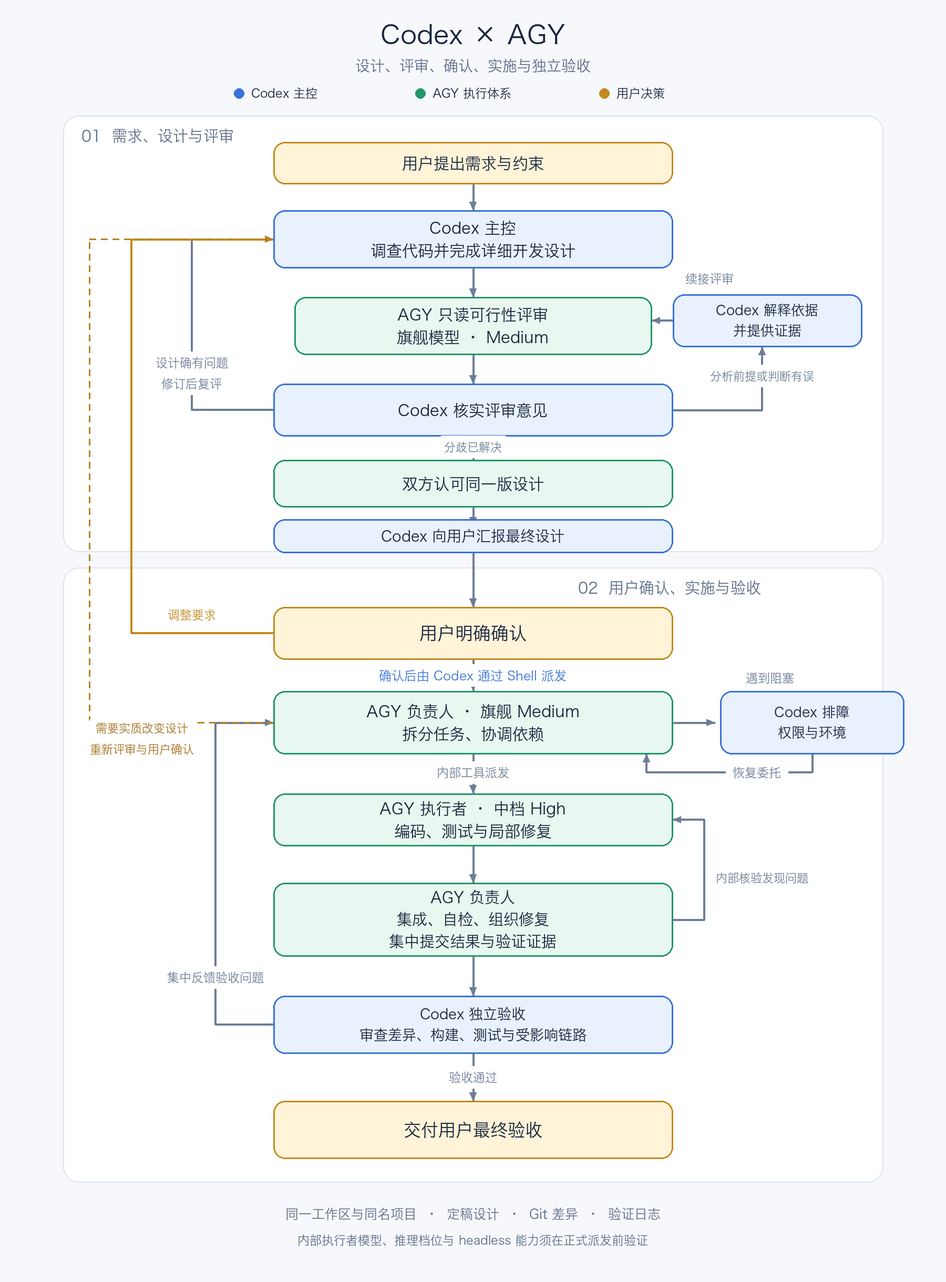
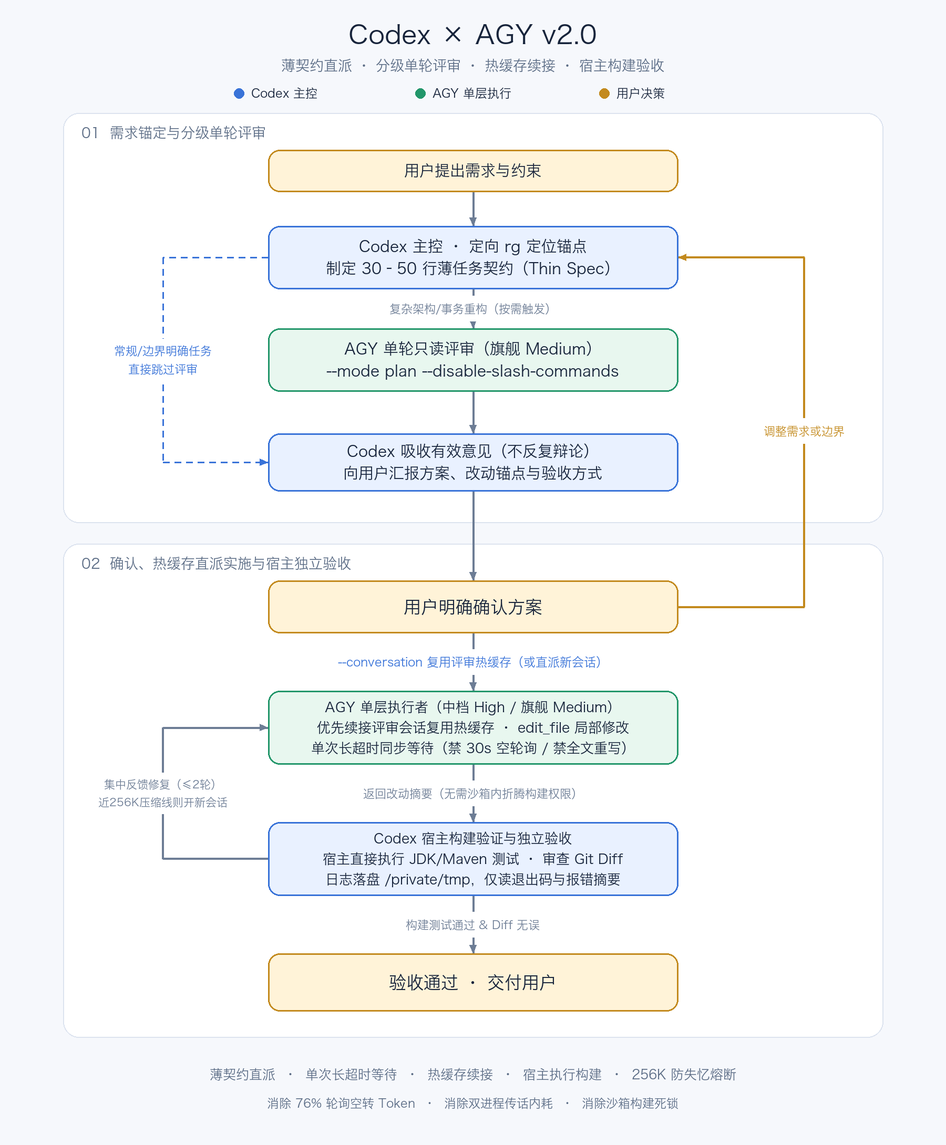
Refactor codex-agy to v2.0 thin-spec direct dispatch and add CHANGELOG

diff --git a/codex-agy/SKILL.md b/codex-agy/SKILL.md
@@ -1,107 +1,89 @@
 ---
 name: codex-agy
-description: 通过 Antigravity CLI（agy）使用 AGY 作为 Codex 的实现 Subagent。用于委托可行性分析、编码、测试或修复，以及续接同一项委托。Codex 保留技术决策和验收权。
+description: 通过 Antigravity CLI（agy）使用 AGY 作为 Codex 的实现 Subagent。采用薄契约直派、按需单轮评审、热缓存续接与宿主构建解耦，彻底消除轮询空转、权限死锁与 256K 压缩失忆。Codex 保留技术决策、构建验证和独立验收权。
 ---
 
-# 直接调用 AGY
+# 高效调用 AGY（薄契约直派架构）
 
-## 从设计到验收
+## 核心原则（针对性解决 8 大痛点）
 
-开发委托按以下顺序执行。每一步产出可核对的结果后，再进入下一步。
+1. **禁止轮询空转（防 Codex 额度爆炸）**：Codex 调用 `agy -p` 时必须使用**单次长超时同步等待**（把工具单次 `yield_time_ms` / timeout 拉到最大，或设 `--print-timeout 600s`）。**严禁每 30–60 秒循环发送空 `write_stdin(chars:"")` 轮询等待**，因为每次空轮询都会把 Codex 几十万 token 的上下文重新推理一遍。
+2. **禁止越界扒库**：`agy -p --output-format json` 在回合结束前无流式输出属正常现象。**严禁 Codex 编写脚本读取或反序列化 `~/.gemini/antigravity-cli/` 下的内部数据库、`transcript.jsonl` 或 `.pb` 文件来监控进度**。
+3. **单层直派，砍掉双进程传话筒**：默认由 **Codex 直接派发单个 AGY 会话**完成编码与修复。**严禁 Codex 在外部同时启动“AGY 负责人 + AGY 执行者”两个独立 `agy -p` 进程并在中间人工传话**，严禁跨独立 CLI 进程调用 `send_message`。
+4. **禁止在 Prompt 中写 `/plan` 斜杠命令**：在 `agy -p` 提示词内写 `/plan` 会触发 AGY 内置的 1500 字 `<PLAN>` 宏展开（强制要求模型全库调研并写 Artifact 文件）。只读模式必须通过 CLI 参数 `--mode plan --disable-slash-commands` 控制。
+5. **严防 256K 自动压缩失忆**：AGY 单会话上下文达到 **~256K tokens** 时会触发自动 Compaction（丢弃早期读取的源码签名细节，`cache_read_tokens` 归零），导致后续修改臆造 API。**单个 AGY 会话最多续接 2–3 轮**；若仍未收敛或上下文已超 150K，立即基于当前 Git 状态开新会话，只传剩余问题的文件与行号。
+6. **移除仪式性探测与沙箱死锁**：**取消开工前的 `git status` / `AGY_WORKER_READY` 空跑探测会话**。若沙箱限制外部 JDK/Maven，让 AGY 仅用原生文件工具（`read_file` / `edit_file` / `write_file`）改代码，**由 Codex 在宿主环境统一跑构建与测试**，再把精简报错交回 AGY 修复。
 
-1. **Codex 完成详细开发设计。** 核实现有行为，写出可直接指导实施的设计文件，按任务写清模块职责、接口和数据契约、主流程和边界条件、状态与事务边界、失败处理及验收用例。
-2. **AGY 用有额度的旗舰模型、Medium 推理强度做只读可行性评审。** 在委托中引用设计文件，要求 AGY 对照现有代码给出结论、依据、风险和阻塞项。需要终端工具时，先用同一工作目录、模式和会话权限验证一条已获授权的只读命令。缺少实质结论时留在评审阶段，由 Codex 排障并续接评审。CLI 的 `SUCCESS` 只代表调用状态。
-3. **Codex 复核评审，双方对同一版设计达成一致。** Codex 用代码、约束和必要的验证核对 AGY 的发现。设计确有问题时，修订后请 AGY 复评。若异议来自分析前提或判断有误，向 AGY 说明证据和理由，再请它复核。续接讨论，直到 Codex 和 AGY 都明确认可同一版设计可实施，并处理完影响实施的分歧。未达成一致时保留在评审阶段，向用户说明仍需解决的问题。
-4. **向用户汇报定稿并等待明确确认。** 说明最终设计、改动范围、关键决策、风险与验收方式，并附设计文件路径。确认前只做设计、只读评审和必要排障。收到用户对该版设计的明确确认后，才启动 `accept-edits`。如果实施中需要实质改变设计或范围，受影响部分重新评审并交用户确认。
-5. **Codex 派发，AGY 负责人组织实施。** Codex 在用户确认后，用旗舰模型 Medium 新开负责人会话，交付定稿、范围和验收条件。负责人在设计内拆分步骤、安排中档 High 执行者、协调依赖、集成和自检，集中向 Codex 交付结果。改变设计或范围时交回 Codex。实施受阻时由 Codex 排障并恢复委托。
-6. **Codex 独立验收。** AGY 交回自检结果后，Codex 对照设计检查整个项目受影响的链路、实际差异和测试内容，并独立执行必要的构建、测试或运行检查。集中列出有依据的问题交回 AGY 修复，再核对本轮差异并复验，直到达到验收条件再交付。
+---
 
-## 控制上下文和往返
+## 从设计到验收（精简 4 步流）
 
-- **按需读取。** Codex 用 `rg` 定位入口、契约和风险相关实现，再读取必要片段。已核实且未变化的内容沿用结论。新的证据或依赖关系需要时再扩展调查范围。
-- **约束日志输出。** 完整构建日志和 AGY 原始输出保存到任务目录。进入 Codex 上下文的优先是退出码、摘要、用量、拒绝项和失败片段，需要时再读原文件。AGY 报告引用文件路径，源码变更通过 Git 差异审查。
-- **等待实际进展。** 预计耗时较长的 AGY 或构建调用，首次等待使用工具支持的较长时限。仍在运行时，常规等待每次 30–60 秒，同一进程只保留一个等待链。空输出或状态未变时继续等待。发现超时、报错或长时间没有进展后再定向查日志。状态汇报遵循宿主要求。
-- **集中验收与修复。** AGY 写入期间等待其完成交付单元和自检，再集中检查。把本轮已确认问题和失败证据一次交回 AGY，自主修复后复验。修复后重点检查本轮变化、受影响调用方及相关回归项。新发现的风险再扩大检查。
-- **按阶段交接。** 设计评审与分歧讨论续接评审会话。用户确认设计后，以定稿文件、验收条件和必要约束交给新的 AGY 实施会话。同一交付单元的修复优先续接。独立交付单元开新会话。上下文已混入大量旧日志时，先核实前次运行结束并保留交接摘要，再从当前 Git 状态新开会话。
-- **复用有效配置。** 同一环境中已验证的模型列表、路径和权限探测结果可以复用。切换阶段时查额度，权限配置或环境变化、出现拒绝时再探测。Codex 与 AGY 避免同时写同一工作区。负责人并行派发写任务时，使用已授权的隔离工作树，或核实文件修改范围互不重叠。共享契约和集成改动按依赖顺序执行。
+### 1. Codex 定向锚定与薄契约设计
+- Codex 用 `rg` 快速定位入口、契约与受影响文件（最多读取必要片段，不做全量重读）。
+- **拒绝文书泛滥**：不在仓库中堆砌多份长篇设计文档、实施文档、Worker 委托书。直接整理一份精炼的**薄任务契约（Thin Spec，控制在 30–50 行内）**，包含：
+  1. **业务目标与不可变边界**（改什么、保留什么、哪些接口/表/协议绝不能破）；
+  2. **精确文件锚点清单**（列出目标源码与测试文件的绝对路径或相对路径、关键方法签名）；
+  3. **局部修改铁律**（要求对已有业务类使用 `edit_file` 局部修改，**严禁 `write_file` 全文重写已有复杂类或臆造未核实的 Mapper/Service 方法**）；
+  4. **验收测试点**。
 
-## 派发给 AGY 负责人
+### 2. 分级触发：单轮只读可行性评审（按需）
+- **何时跳过评审**：需求边界明确、单模块局部改造、明确删减冗余代码、字段调整或常规 Bug 修复，Codex 直接向用户汇报薄契约方案，确认后直奔第 3 步实施。
+- **何时触发评审**：仅当涉及跨服务契约、并发/锁/事务边界重构、复杂状态机改造或存在技术路线分歧时，调用一次旗舰模型 Medium 做**单轮（One-shot）只读评审**：
+  ```bash
+  agy --model '<旗舰 Medium 模型 ID>' --mode plan --disable-slash-commands --output-format json --print-timeout 300s \
+    -p '只读评审以下方案。仅使用 read_file 读取列出的锚点文件（最多 8 个文件，禁止全库扫描、禁止写文件或运行命令）。直接指出：1. 方案是否可行；2. 与现有代码冲突或遗漏的边界；3. 必须修正项。控制在 500 字内。'
+  ```
+- **取消多轮辩论**：Codex 核实 AGY 的单轮评审意见后，直接吸收合理部分并向用户汇报最终方案等待确认，**不再为了“文字表态达成一致”反复续接评审会话**。
 
-Codex 负责实际 Shell 调用、选择模型和传入本轮已验证的权限设置。负责人使用普通 `agy -p` 会话，以委托提示明确职责。委托文件由 Codex 按任务准备，包含最终设计路径、用户已确认的范围、交付单元及依赖、验收命令、执行者模型要求、允许改动范围和必须上报的问题。负责人可自主细分编码步骤，并负责内部修复和整体验证。
+### 3. 用户确认后：热缓存直转实施（或单层直派）
+收到用户对方案的明确确认后，启动 `accept-edits` 实施：
+- **路径 A（做过第 2 步评审 —— 优先复用热缓存）**：
+  **不要新开空白会话！** 直接用 `--conversation '<评审会话 ID>'` 续接刚才的评审会话（此时核心源码已在 Prompt Cache 中，仅 2–4 万 tokens），切换为 `--mode accept-edits`（及中档 High 模型）立即改代码，省去 15 分钟重复 `read_file`：
+  ```bash
+  agy --conversation '<评审 conversation_id>' --model '<中档 High 模型 ID>' --mode accept-edits --disable-slash-commands --output-format json --print-timeout 600s \
+    -p '用户已确认方案。请直接基于你刚才已读取的源码缓存开始实施，禁止重复全量 read_file。对已有类必须使用 edit_file 局部修改，严禁全文覆盖重写或编造不存在的方法。完成后简要返回改动文件清单。'
+  ```
+- **路径 B（跳过评审的任务 —— 单层直派执行者）**：
+  直接启动一个中档 High（如 `gemini-3.8-flash-high`）或旗舰 Medium 会话完成编码：
+  ```bash
+  agy --model '<中档 High 模型 ID>' --mode accept-edits --disable-slash-commands --output-format json --print-timeout 600s \
+    -p '按以下已确认契约实施代码与测试修改。先定向读取列出的锚点文件（禁止全库扫描），再用 edit_file/write_file 完成修改。严禁全文重写已有复杂业务类。完成后返回改动摘要。'
+  ```
 
-首次采用内部子 Agent 时，先核对 `agy agents`、CLI 帮助和当前工具能力，验证 headless 下可调用执行者，并从实际调用证据核对执行者的模型和推理档位。`--model` 只明确设置负责人会话的模型。内部执行者的独立选型必须通过当前支持的子 Agent 配置实现。若能力或档位无法满足，负责人向 Codex 报告，由 Codex 调整可用调用方式，完成验证后再派发开发。[AGY 子 Agent 文档](https://antigravity.google/docs/subagents)
+### 4. Codex 宿主构建验证与集中修复
+- AGY 返回后，Codex 先用 `git status --short` 和 `git diff` 检查实际改动范围与代码质量。
+- **构建与测试由 Codex 在宿主环境直接执行**（如运行真实 JDK8 Maven `clean test` / `clean package`），并将完整构建日志重定向到 `/private/tmp/<task>-build.log`，只在 Codex 上下文中读取退出码与最后 30–50 行报错摘要。
+- **集中返工（最多续接 1–2 次）**：
+  - 若有编译错误、测试失败或审查问题，Codex 将**所有问题、精确文件行号及错误摘要一次性打包**，用 `--conversation '<实施会话 ID>'` 续接让 AGY 修复。
+  - **防失忆熔断**：如果该会话已续接满 3 轮，或发现 AGY 开始重复读文件/遗忘签名（接近 256K 自动压缩线），**立即放弃旧 `conversation_id`**，基于当前已落盘的 Git 状态开一个全新会话，只传那几个报错文件的路径与修复指令。
 
-```bash
-agy --project '<项目 ID>' --model '<旗舰 Medium 模型 ID>' --mode accept-edits --output-format json \
-  -p '你是本次 AGY 实施负责人。读取 <委托文件绝对路径> 和其中引用的用户已确认设计。按设计拆分实施任务，使用已验证的中档 High 子 Agent 配置分派编码和测试，协调依赖与写入范围，完成集成、自检和局部修复。遇到设计冲突或能力限制先报告 Codex。等内部任务结束并核对实际验证结果后，集中返回改动摘要、测试证据路径和未完成项。'
-```
+---
 
-同一交付单元的纠偏和返工，Codex 用负责人的 `conversation_id` 续接，提交集中问题清单。日常实现细节由负责人内部协调，需要 Codex 决策的冲突和最终验收结果再回传。
+## 模型与额度检查（轻量化）
 
-## 先查本机帮助
+- 每个 Codex 对话**仅在首次调用 AGY 前（或遭遇 429/额度报错时）**执行一次：
+  ```bash
+  agy models
+  agy -p '/usage'
+  ```
+- **禁止在每次阶段切换或续接前重复运行**模型与额度查询。
+- 选型规则：
+  - **复杂方案单轮只读评审**：有额度的旗舰模型 Medium（如 `gemini-4-argon-medium` 或同档模型）。
+  - **编码、测试与局部修复**：有额度的中档模型 High（如 `gemini-3.8-flash-high`）；若逻辑极其复杂或中档模型额度不足，可直接用旗舰模型 Medium 实施。
+  - 优先直接使用 `agy models` 中自带推理档位后缀的模型 ID（如 `-medium`、`-high`）。
 
-当前 Codex 对话首次使用 AGY 时，先运行 `command -v agy` 和 `agy --help`，再选择调用方式。使用不熟悉的子命令时，先运行 `agy <子命令> --help`。遇到参数报错、CLI 升级或发现文档与本机行为有差异时，重新查对应帮助后再重试。需要交互式斜杠命令时，另外核对该命令是否支持当前的交互或 headless 模式。
+---
 
-## 委托前检查模型和额度
+## 工作区、权限与多子任务规范
 
-在选模型前由 Codex 运行以下命令。进入下一阶段前刷新额度，并把实际选用的模型和对应模型组的剩余额度简要告诉用户。
-
-```bash
-agy models
-agy -p '/usage'
-```
-
-查询额度时保留 CLI 的斜杠命令处理，避免给 `/usage` 加 `--disable-slash-commands`。
-
-> 先查看 AGY 当前可用模型和剩余额度。可行性评审和 AGY 实施负责人使用有额度的旗舰模型，推理强度 Medium。内部编码、测试和修复执行者使用有额度的中档模型（如 Flash），推理强度 High。
-
-按 CLI 实际返回的模型 ID 和额度选型，检查适用的短时、周度及模型专属额度。优先使用列表中已经包含推理档位的模型 ID。若使用基础模型 ID，则用 `--effort medium` 或 `--effort high` 显式指定档位。首选组合不可用时，选同档且支持所需推理强度的模型并说明。查询失败时报告额度未知。没有符合条件的组合时向用户说明限制。按阶段传入模型参数，续接会话时也显式选型。[AGY 模型与推理参数](https://antigravity.google/docs/cli/reference/) · [AGY 模型额度](https://antigravity.google/docs/cli/commands/usage)
-
-## 命令
-
-以当前 Codex 对话的工作区目录为准，用它的绝对路径作为 Shell 调用的工作目录。若 Codex 当前就在 Git 工作树中，AGY 使用同一个工作树。比较路径时解析符号链接，例如用 `pwd -P` 确认实际目录。
-
-Codex 项目中的新委托归档到同名 AGY 项目。以 Codex 中显示的项目名称为准，分别确认名称和实际工作区。复用已有项目时，核对项目配置包含目标目录且范围适合本次委托，再用 `--project '<项目 ID>'` 启动。遇到同名但目录不匹配的项目，先解决归属再委托。
-
-没有同名项目时，创建与 Codex 项目同名、绑定目标工作区的 AGY 项目。本机 CLI 的 `--new-project` 默认用启动目录的名称建项目，只有目录名与 Codex 项目名一致时才直接使用该参数，否则在 AGY 项目界面指定名称和目录。当前本机版本可从 `~/.gemini/config/projects/<项目 ID>.json` 核对 `name`、`id` 和 `projectResources.resources[]` 中的 `folderUri` 或 `gitFolder.folderUri`。如果当前对话没有 Codex 项目，或用户明确要求使用默认 CLI 项目，可省略 `--project`。[AGY 项目文档](https://antigravity.google/docs/projects?tab=cli)
-
-```bash
-agy --project '<项目 ID>' --model '<旗舰 Medium 模型 ID>' --mode plan --output-format json -p '评估这项方案的可行性，指出风险和待决问题。只读分析。'
-agy --project '<项目 ID>' --model '<旗舰 Medium 模型 ID>' --mode accept-edits --output-format json -p '按已批准的方案文件实施，执行约定的测试并报告结果。'
-```
-
-将示例提示替换为实际目标、已确定的方案、允许范围和验收条件。较长的内容或关键方案放在 AGY 可读取的项目文件中，在提示里给出路径。可用自然语言要求 AGY 说明改动、测试结果和待决问题。
-
-## 读取结果与续接
-
-`--output-format json` 返回 CLI 原生 JSON。读取 stdout 的 `response`，结合进程退出码、`status`、`error`、出现时的 `denied_actions` 和 stderr 判断实际执行情况。即使 CLI 返回成功，也要以实际改动与验证结果为准。无需续接时也可直接读默认文本输出。
-
-按阶段交接规则选择新会话或续接。续接时使用上一轮 JSON 的 `conversation_id`，核对工作区和项目归属。确认目标是当前目录最近使用的会话时，也可用 `--continue`（`-c`）。每次 `agy -p` 都启动新进程。有交错委托或归属不确定时，用 `--conversation` 精确续接。
-
-```bash
-agy --conversation '<conversation_id>' --model '<旗舰 Medium 模型 ID>' --mode accept-edits --output-format json \
-  -p '按更新后的方案文件和下面的验收要求继续。'
-
-agy --continue --model '<旗舰 Medium 模型 ID>' --mode plan --output-format json \
-  -p '继续只读分析，补充上一轮的待决问题。'
-```
-
-核对返回的会话 ID。独立委托按上面的项目归档规则开启新会话，省略 `--conversation` 和 `--continue`。旧会话不可用或属于其他工作区时，先核对已发生的改动，再把当前方案和剩余工作交给从当前工作区启动的新会话。续接时仍应引用关键方案文件，以应对上下文压缩。[AGY 会话工作区](https://antigravity.google/docs/cli/conversations) · [AGY Headless 文档](https://antigravity.google/docs/cli/headless#continue-a-conversation)
-
-## 权限
-
-生产代码、测试代码及实现所需的项目配置由 AGY 编写和修改。Codex 负责设计、委托、排障和验收。若 headless 拒绝 `RunCommand`，结合 `denied_actions`、stderr、委托目标和 Git 差异，查清被拦的动作、它是否必要，以及已完成的改动。根据原因在原授权范围内处理：
-
-- 文件查阅或编辑可用 AGY 的文件工具完成时，调整提示并续接原委托。
-- Git 检查、构建或测试等命令可由 Codex 按现有权限执行时，主动执行并把结果带回原 AGY 会话，让 AGY 继续实施或修复。若 Codex 的权限规则也拒绝该动作，遵循该规则。
-- AGY 必须亲自运行某条已获授权的命令时，先核对本机支持的会话权限配置，再用 `--settings` 仅放行本轮所需的命令。需要新增授权时，说明具体命令、用途和影响，继续推进无需该权限的部分。
-
-重试时从已确认的 Git 状态继续，按可独立验证的范围拆分剩余工作。确实无法继续时，报告具体阻塞和待完成范围，由 AGY 在阻塞解除后继续实施。
-
-### 验证 headless 委托能执行
-
-1. 需要 AGY 运行终端命令时，先按本机 CLI 支持的方式配置会话权限，只授权本轮需要的动作。在 MQ 任务中，经验证可用的组合是 `--sandbox` 加上会话设置 `enableTerminalSandbox: true` 和 `toolPermission: "proceed-in-sandbox"`，同时按任务配置具体的 `permissions.allow` 和 `permissions.deny`，包括禁止 `unsandboxed(*)`。该模式会允许沙箱内的命令，仅在现有授权覆盖这种运行方式时使用。只授权个别命令时，用经核实的具体允许规则或由 Codex 代跑。
-2. 先用相同的设置委托一个小探测，例如让 AGY 实际运行 `git status --short` 并返回结果。核对工具执行证据和 Git 基线。正式评审或实施调用使用已验证的相应设置。已有会话用 `--conversation` 续接时再次传入 `--settings`。
-3. 超时或出现拒绝后，先核对 Git 差异和实际测试输出。权限问题恢复后按原阶段续接。已写入的改动按实际状态交给 AGY 继续。评审以实质结论为准，实施以代码差异和独立验证为准。
-
-`plan` 用于分析，`accept-edits` 用于已授权的实现。执行模式和提示词都不能替代权限隔离。按任务使用 Codex 的宿主权限和 AGY 的会话设置（`--settings`）。`--sandbox` 限制 AGY 执行的终端命令。严格只读时，确认文件工具和终端都受只读权限约束。禁止生产操作时，隔离生产凭据与网络访问。记录 Git 基线以保护已有未提交改动。需要隔离时，先让 Codex 在隔离工作树中开展任务，并从该工作树启动 AGY。需要命名项目时，核对其范围指向该工作树。遇到权限拒绝时，检查 stderr 和实际改动，再决定如何继续。[AGY 权限文档](https://antigravity.google/docs/permissions?tab=cli)
+1. **文件夹即工作区（免 `--project` 折腾）**：
+   - 始终在目标代码仓库根目录（解析符号链接后的真实路径）下执行 `agy`。
+   - 默认无需传 `--project` 或 `--new-project`，也无需去检查 `~/.gemini/config/projects/*.json`，会话天然按当前工作目录归档与隔离。仅当用户明确要求绑定特定命名项目时才传 `--project`。
+2. **权限配置从简，拒绝单文件白名单死锁**：
+   - 生产代码、测试代码与实现配置由 AGY 修改，Codex 绝不与 AGY 同时并发写同一个工作区。
+   - **不要用 `--settings` 构造只允许读几个文件的狭窄白名单**（会导致 AGY 读关联 DTO/Mapper 或 `/private/tmp` 日志时频繁报 `permission check failed`）。
+   - 在已获用户确认的实施阶段，让 AGY 使用原生文件读写工具（`read_file`、`edit_file`、`write_file`）在工作区内自由读写源码，无需在 AGY 内部强跑复杂的外部构建命令；构建、Git 检查与测试统一由 Codex 在宿主环境执行。
+3. **何时才使用内部 Subagent**：
+   - 注意：AGY 内置工具 `invoke_subagent` 的 `Model` 参数仅支持 `inherit | flash_lite | flash | pro` 枚举，**不支持动态传入独立 `High` 推理档位**。
+   - 因此，**单模块或文件有交集的任务一律单会话直派，禁止让 AGY 内部再拆子 Agent**。
+   - 仅当超大任务跨多个互不依赖的子目录、确需并行时，才预先在 `.agents/agents/<worker>.md` 静态定义好带 YAML frontmatter 的子 Agent，再由 AGY 原生调用。

diff --git a/CHANGELOG.md b/CHANGELOG.md
@@ -1,0 +1,54 @@
+# Changelog
+
+## [2.0.0] - 2026-11-09 — 薄契约直派架构重构（解决额度爆炸、耗时拉锯与 256K 压缩失忆）
+
+本次重构基于真实微服务改造任务（`ls-terminal-collection` 公卫 MQ 精简）的全链路日志与 Token 账单取证，彻底解决旧版三层委托流程在实际运行中暴露出的 **8 大核心痛点**。
+
+### 一、真实问题复盘与数据取证
+
+在旧版架构下，单次“删除 4 张冗余表”任务耗时 **89 分钟**，主控 Codex 单线程累计消耗 **1.70 亿 tokens**（仅单日单任务即消耗 **8,410 万 tokens**、发起 **314 次工具调用**），比真正写代码的 AGY 执行者高出 2.5 倍以上。
+
+通过对 `~/.codex/sessions/` 与 `~/.gemini/antigravity-cli/brain/` 的逐帧排查，定位出以下 8 大根因：
+
+1. **Codex 30 秒空轮询烧穿 76% 额度（头号元凶）**
+   - 旧版要求 Codex 在等待 `agy -p` 时“每次常规等待 30–60 秒”。
+   - 314 次工具调用中，有 **160 次（51.0%）** 是 `write_stdin(chars:"")` 空轮询等待。由于每次工具返回都会触发一次携带 **~40 万 tokens 上下文** 的大模型推理，$160 \times 40\text{ 万} \approx 6,400\text{ 万 tokens}$ 纯粹消耗在“干等 AGY 输出”上。
+2. **伪三层架构退化为“Codex 人工双进程传话筒”**
+   - 旧版强制要求 `Codex -> AGY 负责人 (Argon Medium) -> 内部子 Agent 执行者 (Flash High)`。
+   - 但 AGY 内置工具 `invoke_subagent` 的 `Model` 参数仅支持 `inherit | flash_lite | flash | pro` 枚举，**不支持动态传入独立 `High` 推理档位**。
+   - 结果 Codex 为满足规则，在外部同时启动两个独立 `agy -p` 进程（一个当负责人、一个当执行者），由 Codex 在中间来回传话、拷文件，甚至试图跨独立 CLI 进程发 `send_message`，造成严重的多头拉锯。
+3. **AGY 触发 256K 自动上下文压缩导致“中途失忆”与臆造 API**
+   - Antigravity CLI 在单会话上下文达到 **~256,000 tokens** 时会自动触发 Context Compaction（历史源码细节被压缩摘要替换，`cache_read_tokens` 瞬间归零）。
+   - 旧版把所有读写、构建、多轮返工全部塞进同一个会话（单会话续接 18～25 轮、读取文件 110～149 次），上下文涨到 **256,759 tokens** 后触发压缩归零至 **21,333 tokens**。AGY 瞬间丢失前面读过的类方法签名，转而用 `write_file` 全文重写业务类并臆造不存在的 API，引发大面积编译错误。
+4. **Prompt 中误用 `/plan` 斜杠命令引发跨 Agent 认知偏差**
+   - Codex 在只读评审 Prompt 开头拼入 `/plan`，误以为只是提醒“只读分析”。
+   - 实际上 AGY CLI 会将 `/plan` 自动展开为 **1,500+ 字符的系统级 `<PLAN>` 指令**（强制要求彻底遍历代码库并生成 Artifact 计划文档），与 Codex“最多 10 次调用、不写文件、简短返回”的要求正面冲突。
+5. **评审完强制新开会话，白白丢弃源码热缓存**
+   - 旧版只读评审仅耗时 **72 秒、消耗 2.7 万新 tokens** 就把核心源码读入了 Prompt Cache；但旧规要求“用户确认后新开实施会话”，导致新会话上来又花 15 分钟、调用 46 次 `read_file` 重新遍历同一批文件。
+6. **严苛碎片化的 `--settings` 白名单与沙箱死锁**
+   - 逐文件配置 `read_file` 白名单、封禁 `/private/tmp` 与外部 JDK/Maven 路径，导致 AGY 读构建日志和跑本地 Maven 屡次报 `permission check failed`，每次被拒都要退回 Codex 重配权限再续接，再加上开工前繁琐的 `git status` 空跑探测，浪费超过 25 分钟。
+7. **文书泛滥与过度设计**
+   - 为删除 4 张表，Codex 先后在仓库生成 5 份长篇设计稿、实施方案与 Worker 委托书，且自己用 76 次工具调用把代码查了个底朝天，做了大量与 AGY 重叠的工作。
+8. **Codex 越界逆向解析 AGY 内部数据库**
+   - 因 `agy -p --output-format json` 结束前无流式输出，Codex 焦虑之下编写 Python 脚本 **19 次直接去解析 `~/.gemini/antigravity-cli/` 的内部 `.pb` 和 `transcript.jsonl`** 来偷看进度，严重越界且污染上下文。
+
+---
+
+### 二、v2.0 重构核心改动
+
+- **架构降维：单层直派替代常态双层传话筒**
+  - 默认采用 **`Codex（主控/薄契约/宿主验证） -> 单个 AGY 会话（编码与局部修复）`**。
+  - 废除 Codex 在外部同时起“负责人 + 执行者”两个 CLI 进程的模式；废除开工前的 `git status` / `AGY_WORKER_READY` 仪式性探测会话。
+- **消灭轮询黑洞：单次长超时同步等待 + 严禁扒库**
+  - 强制使用单次长超时（`--print-timeout 300s/600s` 及最大工具等待时限）同步等待 `agy -p` 结束，**彻底禁止 30–60 秒空 `write_stdin` 轮询**，预计节省 **70%–80% Codex Token 消耗**。
+  - 严禁 Codex 读取或解析 `~/.gemini/antigravity-cli/` 内部日志与状态库。
+- **分级可行性评审 + 热缓存直转实施**
+  - **按需触发**：边界清晰的单模块改造、删减冗余、常规修复直接跳过 AGY 评审；仅复杂架构/事务/状态机重构触发**单轮（One-shot）**只读评审，取消多轮辩论复评。
+  - **禁用斜杠宏展开**：只读评审统一使用 `--mode plan --disable-slash-commands`，**严禁在 Prompt 中写 `/plan`**。
+  - **热缓存续接**：做过只读评审的任务，在用户确认后**直接用 `--conversation <评审ID> --mode accept-edits` 续接原会话改代码**，100% 复用已加载的源码缓存，省去 15 分钟重复读文件。
+- **薄任务契约（Thin Spec）+ 局部编辑铁律**
+  - 以 30–50 行以内的“目标 + 不可变边界 + 精确文件锚点 + 验收点”替代多份长篇 Markdown 设计书。
+  - 强制要求对已有复杂业务类使用 `edit_file` 局部修改，**严禁 `write_file` 全文重写或臆造未核实的 API**。
+- **构建职责回迁宿主 + 256K 防失忆熔断**
+  - AGY 专注使用原生文件工具读写代码，**构建与测试（如 JDK8 Maven）统一由 Codex 在宿主环境执行**，彻底消除沙箱权限死锁。
+  - **单会话最多续接 2–3 轮**：接近 150K–256K 压缩线前主动熔断，基于当前已落盘 Git 状态开启干净新会话收尾，彻底杜绝自动压缩失忆。

diff --git a/README.md b/README.md
@@ -1,24 +1,27 @@
 # Codex AGY
 
-Codex 决定技术方案并独立验收。AGY 通过原生 CLI 提供可行性反馈，并在授权范围内实现和测试。
+Codex 负责理解需求、锚定关键文件、制定薄契约方案并执行宿主构建与独立验收；AGY 通过原生 CLI（`agy -p`）按需提供单轮只读可行性反馈，并在授权范围内高效完成生产代码、测试代码与配置的局部修改。
 
-将 [AGENTS.md](AGENTS.md) 中的分工合并到目标项目的 `AGENTS.md`。确认 `agy` 已安装并登录，然后在本仓库根目录安装 Skill。
+将 [AGENTS.md](AGENTS.md) 中的分工合并到目标项目的 `AGENTS.md`。确认 `agy` 已安装并登录，然后在本仓库根目录安装 Skill：
 
 ```bash
 mkdir -p ~/.codex/skills/codex-agy
 cp codex-agy/SKILL.md ~/.codex/skills/codex-agy/SKILL.md
 ```
 
-从旧版升级时，可从个人 Skill 目录中移除旧版的 `scripts/run_agy.py`、`references/protocol.md`、`references/result.schema.json` 和 `agents/openai.yaml`。
+在目标项目的 Codex 对话中按需调用 `$codex-agy`。
+- [SKILL.md](codex-agy/SKILL.md)：薄契约直派、按需单轮评审、热缓存续接、防 256K 压缩失忆与防轮询空转规范。
+- [CHANGELOG.md](CHANGELOG.md)：v2.0 架构重构复盘与 8 大核心痛点取证分析。
 
-在目标项目的 Codex 对话中按需调用 `$codex-agy`。[SKILL.md](codex-agy/SKILL.md) 提供原生命令、会话续接和权限配置说明。
-
-## 架构与执行流程
+## 架构与执行流程（v2.0 薄契约直派）
 
 ![Codex 与 AGY 架构及执行流程](assets/architecture.png)
 
 [查看完整尺寸 PNG](assets/architecture.png)
 
-Codex 实际执行 AGY CLI 调用。AGY 负责人按已确认设计组织实现，生产代码、测试代码与实现配置由 AGY 执行者修改。定稿设计、Git 差异及验证日志作为交接和验收依据。设计评审续接原会话，确认后新开负责人实施会话，同一交付单元的返工优先续接。
+### 核心机制
 
-内部子 Agent 的模型和推理档位配置、headless 调用能力须在正式派发前验证。并行写任务使用已授权的隔离工作树，或先核实文件修改范围互不重叠。共享契约和集成修改按依赖顺序执行。
+1. **薄契约直派（砍掉中间传话层）**：Codex 用 `rg` 快速定位核心文件锚点，整理 30–50 行以内的薄任务契约，直接派发给单个 AGY 会话，不在外部同时维护“负责人 + 执行者”双进程。
+2. **分级单轮评审与热缓存复用**：常规局部改动确认后直派实施；复杂架构/事务重构触发单轮只读评审（`--mode plan --disable-slash-commands`），用户确认后直接 `--conversation` 续接该评审会话切入 `accept-edits` 编码，零成本复用已读源码热缓存。
+3. **宿主构建解耦与防轮询空转**：AGY 专注用原生文件工具（`edit_file` 优先）改代码，Maven/测试构建由 Codex 在宿主环境统一执行；调用 `agy -p` 采用单次长超时同步等待，严禁 30 秒空轮询与越界读取 AGY 内部数据库。
+4. **256K 压缩防失忆熔断**：单个 AGY 会话最多续接 2–3 轮；若仍有收尾项，基于已落盘的 Git 状态开启干净新会话，防止触发 256K 自动上下文压缩导致丢失方法签名与臆造 API。

diff --git a/AGENTS.md b/AGENTS.md
@@ -1,9 +1,9 @@
 # Codex 与 AGY 的分工
 
-用户决定业务目标、约束和最终验收。Codex 是唯一主 Agent，负责理解需求、制定和调整技术方案、做架构决策，并决定何时委托以及任务何时完成。
+用户决定业务目标、约束和最终验收。Codex 是唯一主 Agent，负责理解需求、快速定位代码锚点、制定薄契约方案、做架构决策，并在宿主环境执行构建测试与独立验收。
 
-AGY 是 Codex 的实现 Subagent。它可以评估可行性、指出冲突并提出建议，在 Codex 确定且用户已授权的范围内自主组织编码、测试和局部修复。若遇到需要改变技术方向或扩大范围的问题，AGY 把具体问题和影响交回 Codex，由 Codex 决定。
+AGY 是 Codex 的实现 Subagent。它通过原生 CLI（`agy -p`）对复杂方案做单轮只读可行性评审，并在已确认范围内直接用原生文件工具完成生产代码、测试代码与配置的局部修改。若遇到需要改变技术方向或扩大范围的问题，AGY 将具体冲突交回 Codex 决策。
 
-Codex 通过 CLI 向 AGY 负责人派发已确认设计和验收条件。负责人使用旗舰模型 Medium，组织中档 High 执行者完成拆分、编码、集成、自检和修复，集中向 Codex 交付。内部执行者的模型配置和 headless 可用性须先核实。
+默认采用 **Codex 直派单层 AGY 会话**，不额外套一层常驻“AGY 负责人”进程。只读评审（中/高复杂度任务按需触发）使用有额度的旗舰模型 Medium；编码与修复使用中档模型 High（或直接复用评审会话的热缓存切入实施）。
 
-Codex 按实际情况决定委托内容和轮次。生产代码、测试代码及实现所需的项目配置由 AGY 编写和修改。Codex 负责排障、独立审查 Git 差异和测试证据、运行必要的验证命令，并把发现的问题交回 AGY 修复。调用方式见 `$codex-agy` Skill。
+生产代码、测试代码及实现配置由 AGY 编写和修改。Codex 负责宿主构建验证、独立审查 Git 差异与测试结果，并将问题集中交回 AGY 修复。调用细则与防失忆、省额度规范见 `$codex-agy` Skill。
